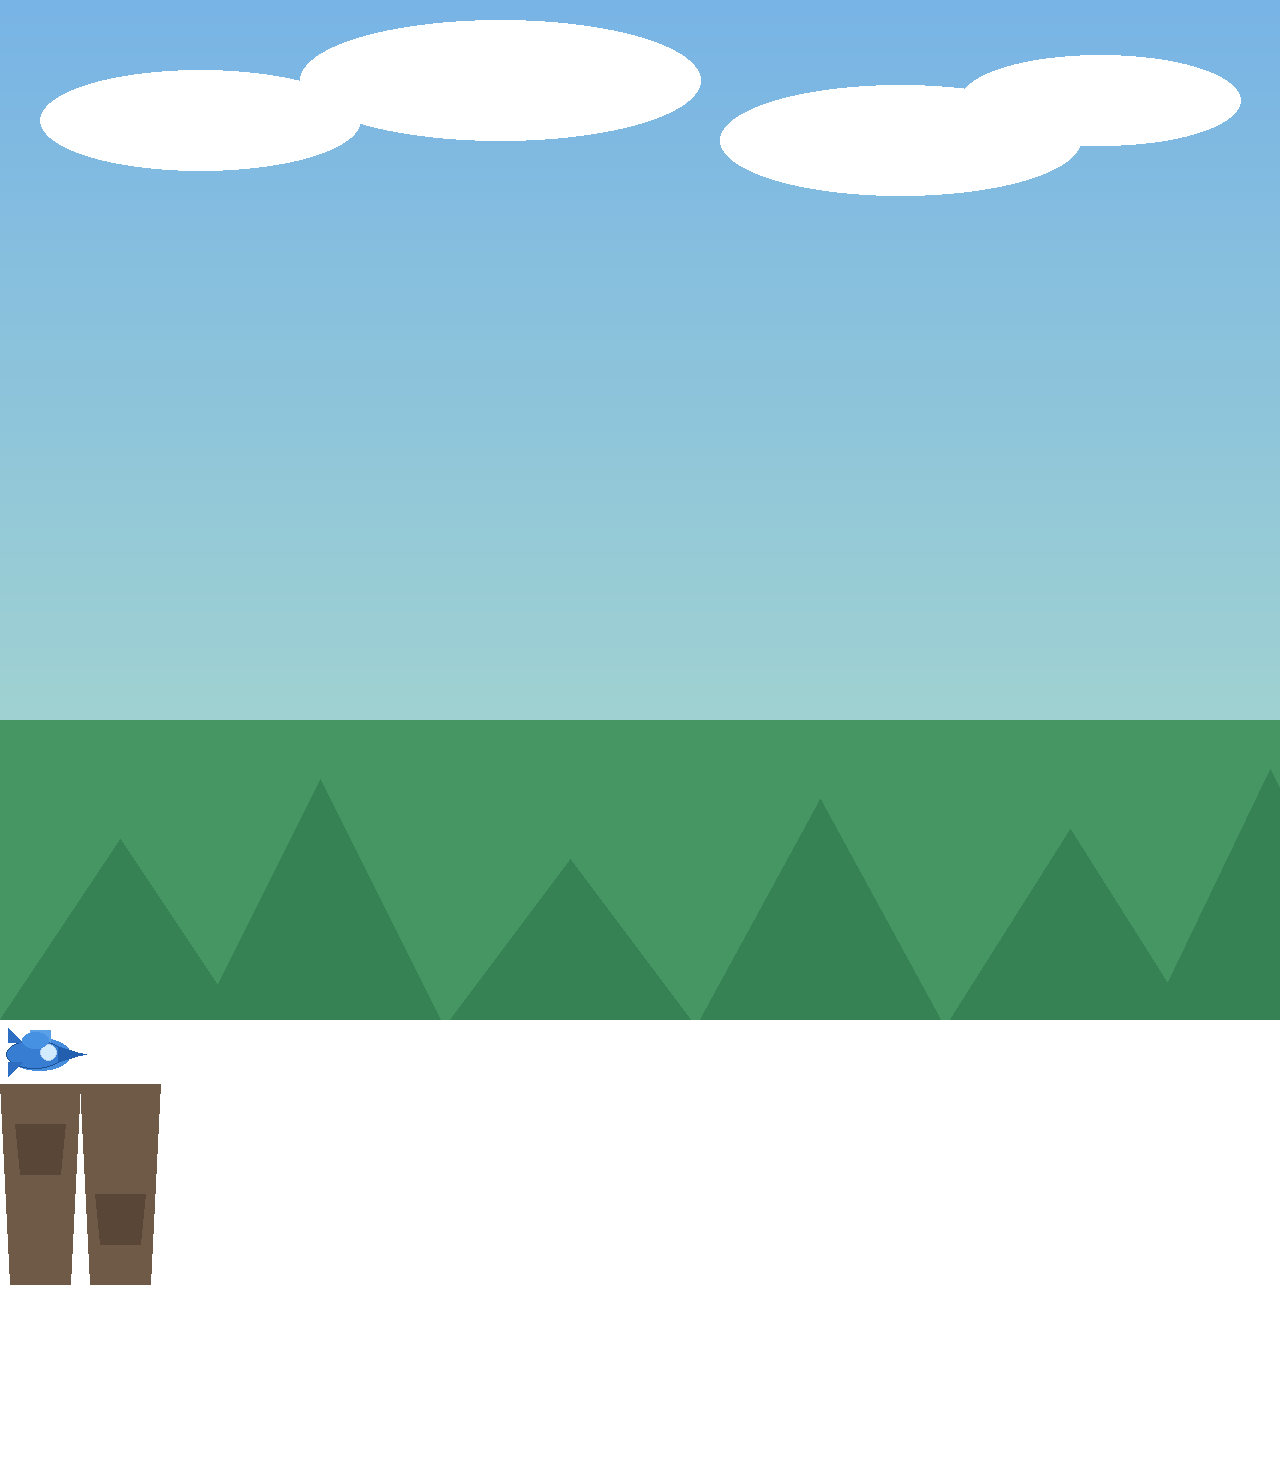
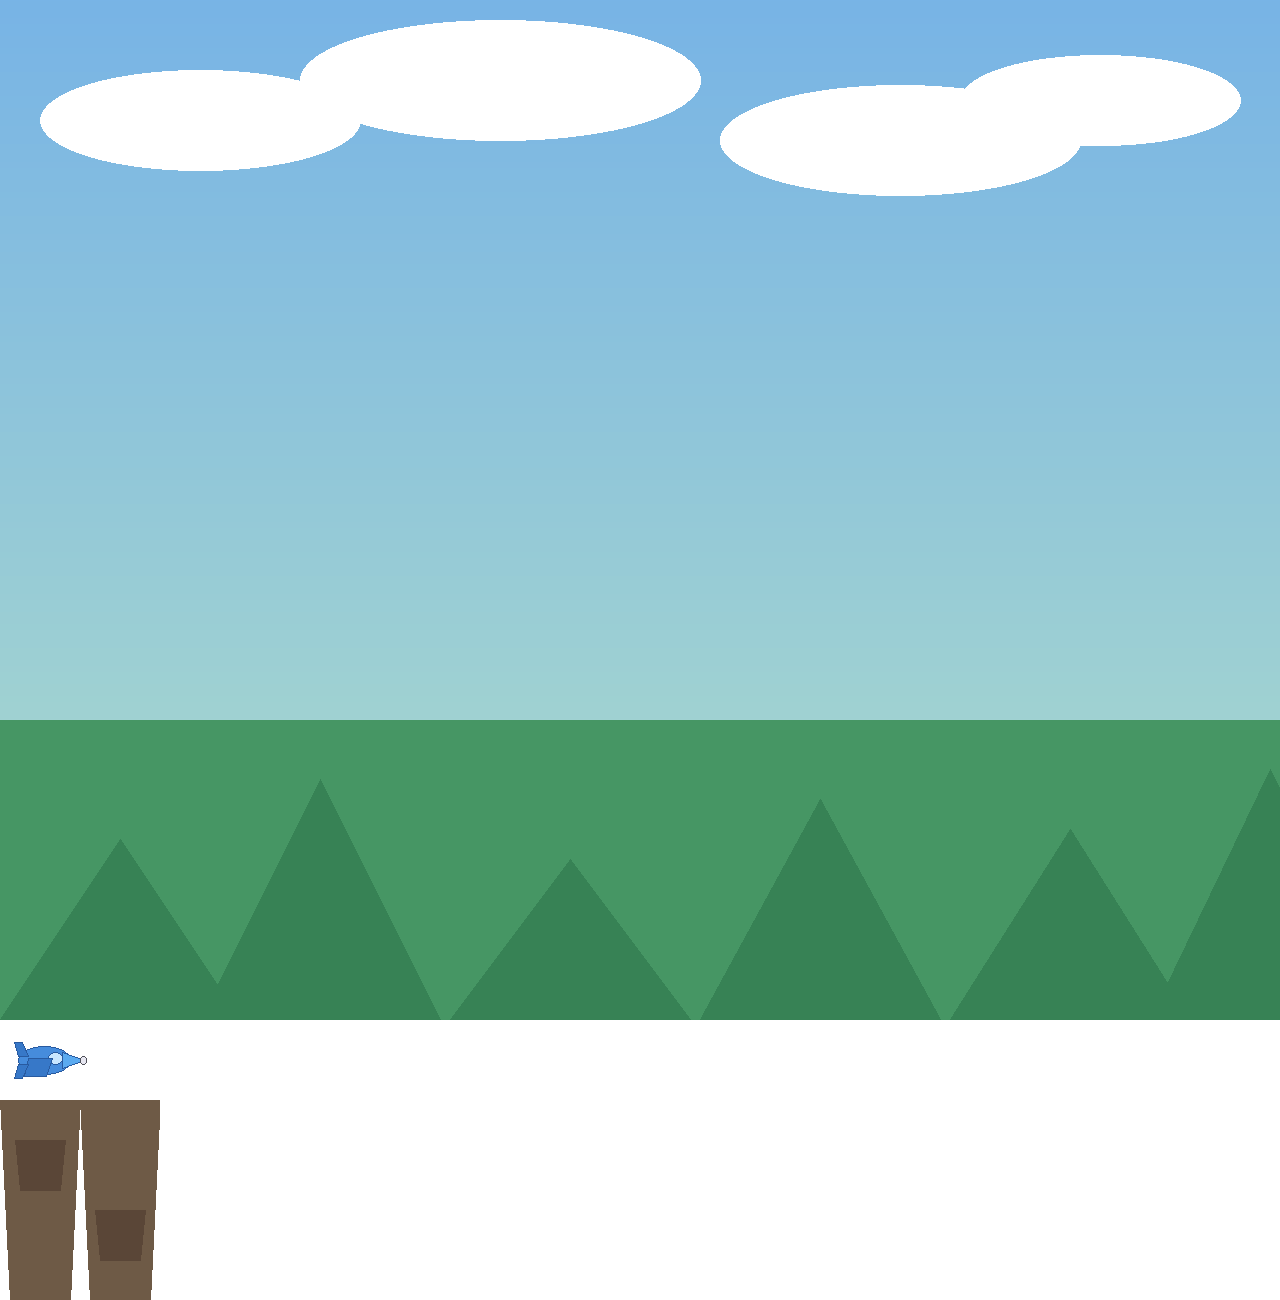
Pad the Tappy atlas so the plane no longer bleeds edge lines.
Hills and rocks sat flush against the player crop; with smooth filtering
that sampled green/brown into hairline strips on the sprite.

diff --git a/games/tappy/docs/reference/assets.md b/games/tappy/docs/reference/assets.md
@@ -20,12 +20,13 @@ last_reviewed: 2026-11-05
 # Tappy assets
 
 Optional atlas at `assets/tappy/atlas.png` + `atlas.txt`. `main` loads both into `SpriteBank` when present.
+Regions are separated by transparent padding so bilinear filtering (`textureFile` smooth) does not bleed hills/rocks into the plane.
 
 | Region | Role |
 |--------|------|
 | `bg/sky` | Full-screen sky |
 | `bg/hills` | Parallax mid ground |
-| `player/blue` | Plane |
+| `player/blue` | Plane (faces +X) |
 | `gate/rockTop` | Upper pillar |
 | `gate/rockBottom` | Lower pillar |
 
